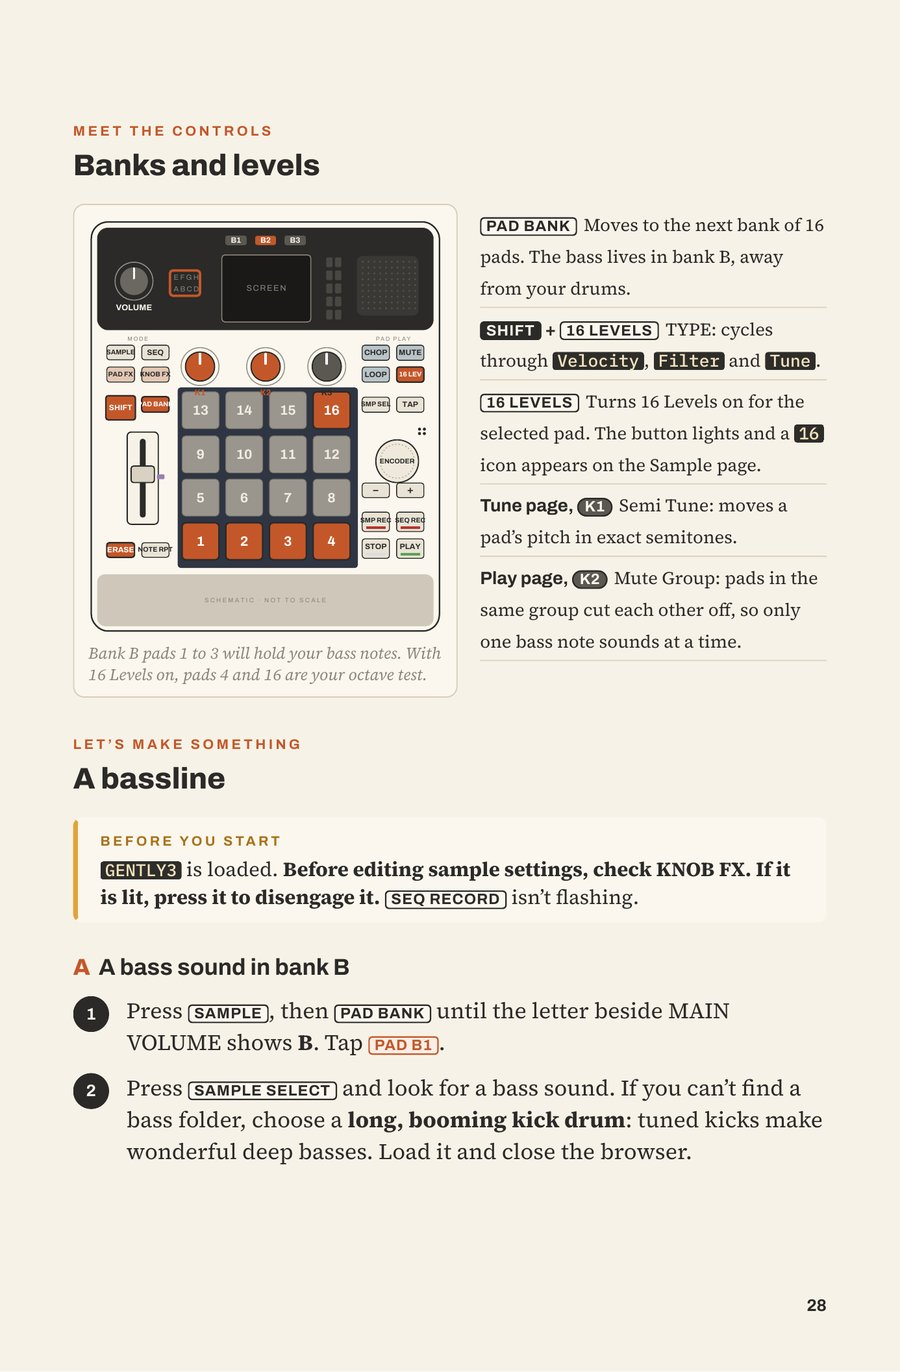
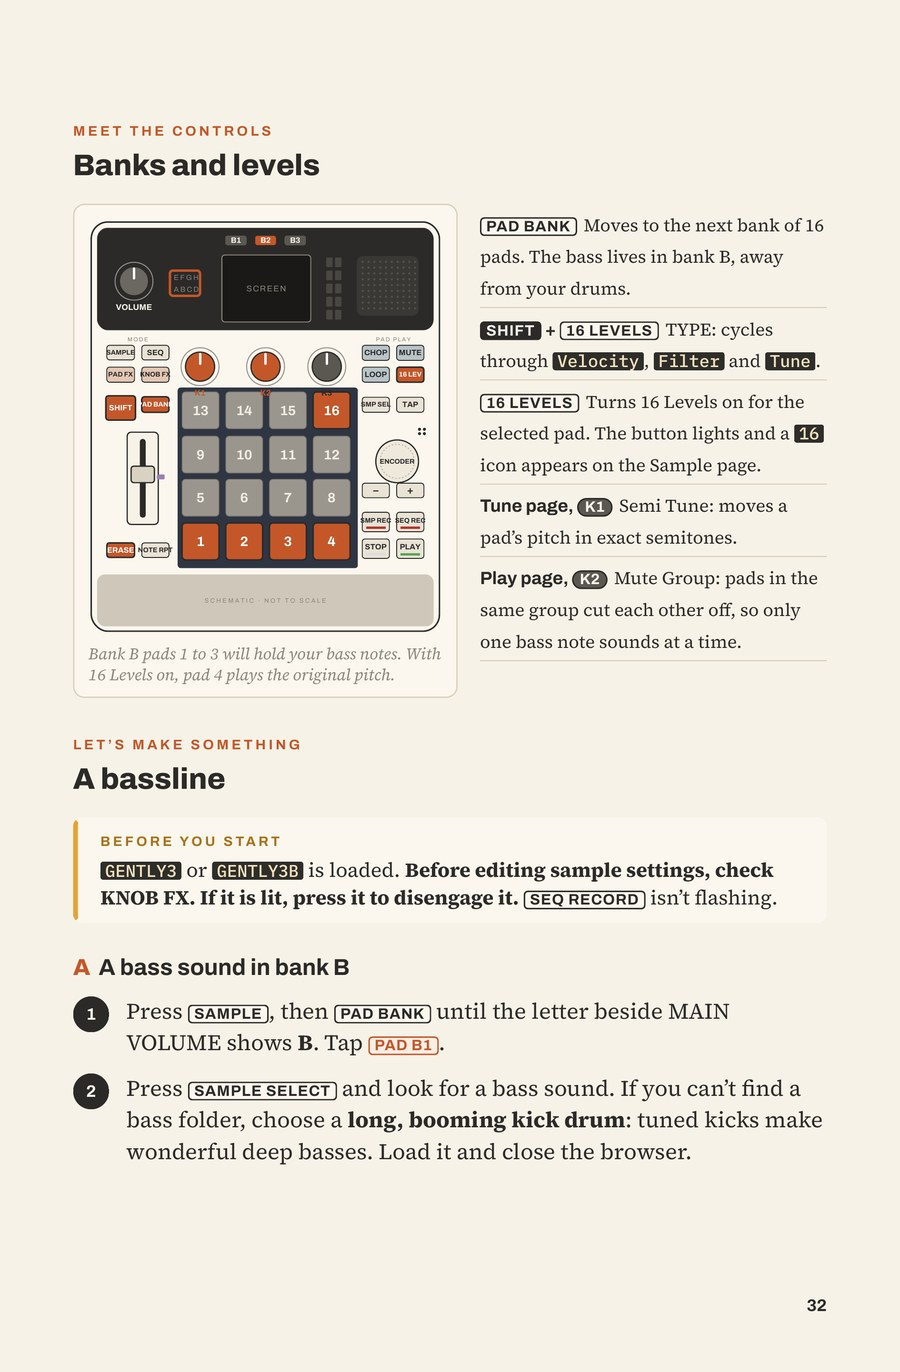
Update README previews to the v1.0 edition
Regenerate the look-inside, controls-diagram and shaping-sound images
from the v1.0 PDF (new blueprint cover; pages 15, 32, 38 and 60) and
update their alt text.

Claude-Session: https://claude.ai/code/session_013um1M1DLwRvrEBAS18C9MV

diff --git a/README.md b/README.md
@@ -35,13 +35,13 @@ Future versions will appear on the [Releases page](https://github.com/slowphase/
 ## A look inside
 
 <p align="center">
-  <img src="previews/look-inside.jpg" alt="Three pages from the handbook: the charcoal cover with Akai and MPC Sample logos and burnt-orange stripes (from an earlier edition), the Lesson 2 opener with a beats-and-bars diagram, and a Lesson 8 page showing the song arrangement as energy blocks above numbered steps" width="800">
+  <img src="previews/look-inside.jpg" alt="Three pages from the handbook: the charcoal cover with a cream line drawing of the MPC Sample top panel, the Akai and MPC Sample logos and burnt-orange stripes, the Lesson 2 opener with a beats-and-bars diagram, and a Lesson 8 page showing the song arrangement as energy blocks above numbered steps" width="800">
 </p>
 
 <p align="center">
   <img src="previews/controls-diagram.jpg" alt="Lesson 4 page: a drawing of the MPC Sample top panel with the controls for the lesson lit in orange, beside a short list of what each one does" width="390">
   &nbsp;
-  <img src="previews/shaping-sound.jpg" alt="Lesson 5 page: a waveform with Start and End markers, and three envelope shapes labelled pluck, drum hit and swell" width="390">
+  <img src="previews/shaping-sound.jpg" alt="Lesson 5 page: a waveform with Start and End markers, and a table of five ways to cut a sound, showing which can be undone" width="390">
 </p>
 
 <p align="center"><sub>A warm, retro look for evening sessions · each lesson lights up only the controls it uses · pictures that explain the sound, not just the buttons.</sub></p>
